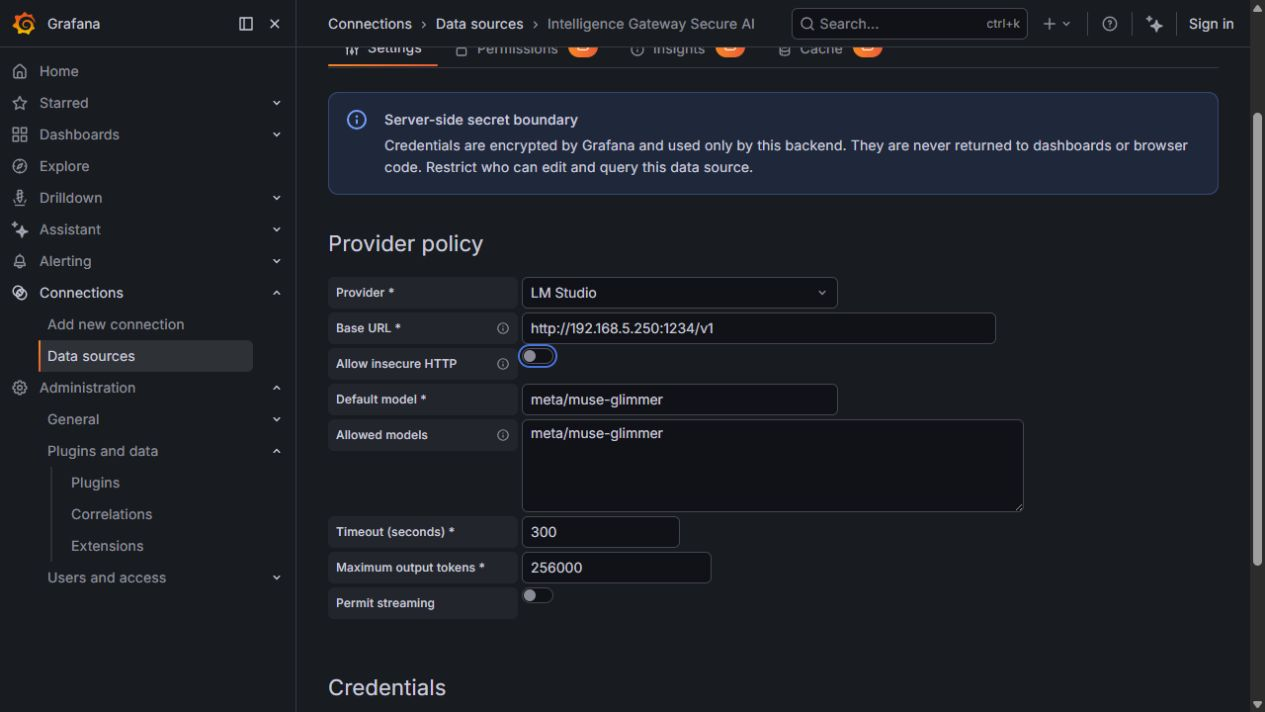
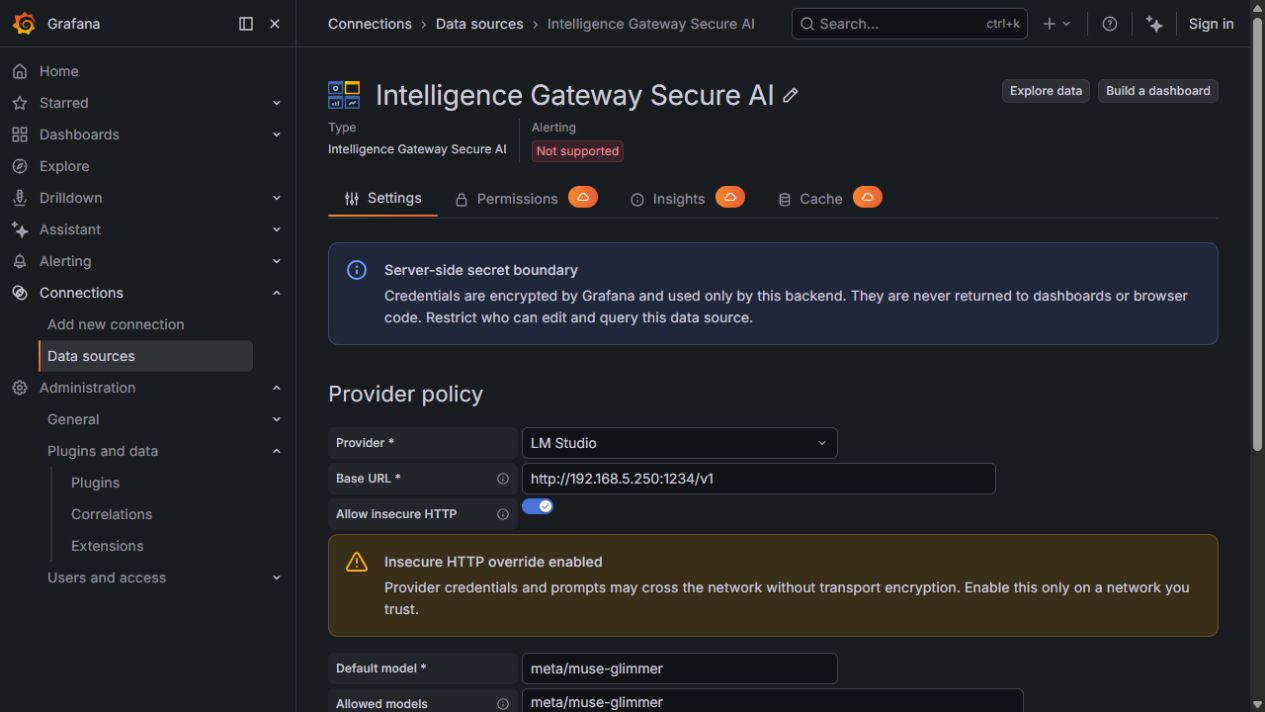
Harden secure AI data source for catalog review

diff --git a/src/components/ConfigEditor.tsx b/src/components/ConfigEditor.tsx
@@ -110,7 +110,7 @@ export function ConfigEditor({ options, onOptionsChange }: Props) {
         <InlineField
           label="Allowed models"
           labelWidth={24}
-          tooltip="One model ID per line. Leave empty to permit any model accepted by the configured provider."
+          tooltip="One model ID per line. The default model must be included. When empty, only the default model is permitted."
         >
           <TextArea
             id="config-allowed-models"
@@ -154,13 +154,6 @@ export function ConfigEditor({ options, onOptionsChange }: Props) {
             }
           />
         </InlineField>
-        <InlineField label="Permit streaming" labelWidth={24}>
-          <Switch
-            id="config-allow-streaming"
-            value={jsonData.allowStreaming}
-            onChange={(event) => updateJson('allowStreaming', event.currentTarget.checked)}
-          />
-        </InlineField>
       </FieldSet>
 
       <FieldSet label="Credentials">
@@ -179,14 +172,6 @@ export function ConfigEditor({ options, onOptionsChange }: Props) {
           value={options.secureJsonData?.bearerToken}
           onChange={(value) => updateSecret('bearerToken', value)}
           onReset={() => resetSecret('bearerToken')}
-        />
-        <SecretField
-          id="config-client-secret"
-          label="OAuth client secret"
-          configured={Boolean(options.secureJsonFields.clientSecret)}
-          value={options.secureJsonData?.clientSecret}
-          onChange={(value) => updateSecret('clientSecret', value)}
-          onReset={() => resetSecret('clientSecret')}
         />
       </FieldSet>
     </Stack>

diff --git a/src/types.ts b/src/types.ts
@@ -21,7 +21,6 @@ export interface IntelligenceGatewayDataSourceOptions extends DataSourceJsonData
   timeoutSeconds?: number;
   allowedModels?: string[];
   maxOutputTokens?: number;
-  allowStreaming?: boolean;
   allowInsecureHttp?: boolean;
 }
 
@@ -29,7 +28,6 @@ export interface IntelligenceGatewayDataSourceOptions extends DataSourceJsonData
 export interface IntelligenceGatewaySecureJsonData {
   apiKey?: string;
   bearerToken?: string;
-  clientSecret?: string;
 }
 
 export const DEFAULT_CONFIG: Required<Omit<IntelligenceGatewayDataSourceOptions, keyof DataSourceJsonData>> = {
@@ -39,6 +37,5 @@ export const DEFAULT_CONFIG: Required<Omit<IntelligenceGatewayDataSourceOptions,
   timeoutSeconds: 300,
   allowedModels: ['gpt-4.1-mini'],
   maxOutputTokens: 256000,
-  allowStreaming: false,
   allowInsecureHttp: false,
 };

diff --git a/pkg/plugin/datasource.go b/pkg/plugin/datasource.go
@@ -137,7 +137,61 @@ func (d *Datasource) handleModels(w http.ResponseWriter, req *http.Request) {
 		return
 	}
 	defer closeBody(response.Body)
-	copyResponse(w, response)
+	body, err := readBounded(response.Body)
+	if err != nil {
+		writeError(w, err)
+		return
+	}
+	filtered, err := filterModelList(body, d.gateway.settings)
+	if err != nil {
+		writeJSONError(w, http.StatusBadGateway, err.Error())
+		return
+	}
+	w.Header().Set("Content-Type", "application/json")
+	w.WriteHeader(http.StatusOK)
+	_, _ = w.Write(filtered)
+}
+
+func filterModelList(body []byte, settings *models.PluginSettings) ([]byte, error) {
+	var payload struct {
+		Data   []json.RawMessage `json:"data"`
+		Models []json.RawMessage `json:"models"`
+	}
+	if err := json.Unmarshal(body, &payload); err != nil {
+		return nil, errorsForAnswer("provider returned an invalid model list")
+	}
+	entries := payload.Data
+	if len(entries) == 0 {
+		entries = payload.Models
+	}
+	seen := make(map[string]struct{}, len(entries))
+	allowed := make([]map[string]string, 0, len(entries))
+	for _, entry := range entries {
+		var modelID string
+		if err := json.Unmarshal(entry, &modelID); err != nil {
+			var item struct {
+				ID   string `json:"id"`
+				Name string `json:"name"`
+			}
+			if err := json.Unmarshal(entry, &item); err != nil {
+				continue
+			}
+			modelID = item.ID
+			if modelID == "" {
+				modelID = item.Name
+			}
+		}
+		modelID = strings.TrimSpace(modelID)
+		if modelID == "" || !settings.ModelAllowed(modelID) {
+			continue
+		}
+		if _, exists := seen[modelID]; exists {
+			continue
+		}
+		seen[modelID] = struct{}{}
+		allowed = append(allowed, map[string]string{"id": modelID, "object": "model"})
+	}
+	return json.Marshal(map[string]any{"object": "list", "data": allowed})
 }
 
 func (d *Datasource) handleChat(w http.ResponseWriter, req *http.Request) {
@@ -165,12 +219,6 @@ func (d *Datasource) handleChat(w http.ResponseWriter, req *http.Request) {
 
 func copyResponse(w http.ResponseWriter, response *http.Response) {
 	contentType := response.Header.Get("Content-Type")
-	if strings.HasPrefix(strings.ToLower(contentType), "text/event-stream") {
-		w.Header().Set("Content-Type", contentType)
-		w.WriteHeader(http.StatusOK)
-		_, _ = io.Copy(w, io.LimitReader(response.Body, maxResponseBytes))
-		return
-	}
 	body, err := readBounded(response.Body)
 	if err != nil {
 		writeError(w, err)

diff --git a/pkg/models/settings.go b/pkg/models/settings.go
@@ -23,15 +23,13 @@ type PluginSettings struct {
 	TimeoutSeconds    int                   `json:"timeoutSeconds"`
 	AllowedModels     []string              `json:"allowedModels"`
 	MaxOutputTokens   int                   `json:"maxOutputTokens"`
-	AllowStreaming    bool                  `json:"allowStreaming"`
 	AllowInsecureHTTP bool                  `json:"allowInsecureHttp"`
 	Secrets           *SecretPluginSettings `json:"-"`
 }
 
 type SecretPluginSettings struct {
-	APIKey       string `json:"apiKey"`
-	BearerToken  string `json:"bearerToken"`
-	ClientSecret string `json:"clientSecret"`
+	APIKey      string `json:"apiKey"`
+	BearerToken string `json:"bearerToken"`
 }
 
 func LoadPluginSettings(source backend.DataSourceInstanceSettings) (*PluginSettings, error) {
@@ -40,9 +38,8 @@ func LoadPluginSettings(source backend.DataSourceInstanceSettings) (*PluginSetti
 		return nil, fmt.Errorf("unmarshal data source settings: %w", err)
 	}
 	settings.Secrets = &SecretPluginSettings{
-		APIKey:       source.DecryptedSecureJSONData["apiKey"],
-		BearerToken:  source.DecryptedSecureJSONData["bearerToken"],
-		ClientSecret: source.DecryptedSecureJSONData["clientSecret"],
+		APIKey:      source.DecryptedSecureJSONData["apiKey"],
+		BearerToken: source.DecryptedSecureJSONData["bearerToken"],
 	}
 	settings.applyDefaults()
 	if err := settings.Validate(); err != nil {
@@ -101,12 +98,15 @@ func (s PluginSettings) Validate() error {
 	if s.MaxOutputTokens < 1 || s.MaxOutputTokens > MaxConfiguredOutputTokens {
 		return fmt.Errorf("maxOutputTokens must be between 1 and %d", MaxConfiguredOutputTokens)
 	}
+	if len(s.AllowedModels) > 0 && !s.ModelAllowed(s.DefaultModel) {
+		return fmt.Errorf("defaultModel must be included in allowedModels")
+	}
 	return nil
 }
 
 func (s PluginSettings) ModelAllowed(model string) bool {
 	if len(s.AllowedModels) == 0 {
-		return true
+		return model == s.DefaultModel
 	}
 	for _, allowed := range s.AllowedModels {
 		if model == allowed {

diff --git a/pkg/plugin/gateway.go b/pkg/plugin/gateway.go
@@ -177,8 +177,8 @@ func (g *gateway) requestChat(ctx context.Context, request gatewayRequest) (*htt
 	if !g.settings.ModelAllowed(model) {
 		return nil, &gatewayError{status: http.StatusBadRequest, message: "requested model is not allowed by the administrator"}
 	}
-	if request.Stream && !g.settings.AllowStreaming {
-		return nil, &gatewayError{status: http.StatusBadRequest, message: "streaming is disabled for this data source"}
+	if request.Stream {
+		return nil, &gatewayError{status: http.StatusBadRequest, message: "streaming is not supported; use a buffered request"}
 	}
 	if request.Temperature != nil && (*request.Temperature < 0 || *request.Temperature > 2) {
 		return nil, &gatewayError{status: http.StatusBadRequest, message: "temperature must be between 0 and 2"}
@@ -231,9 +231,6 @@ func (g *gateway) requestChat(ctx context.Context, request gatewayRequest) (*htt
 	}
 	providerReq.Header.Set("Content-Type", "application/json")
 	providerReq.Header.Set("Accept", "application/json")
-	if request.Stream {
-		providerReq.Header.Set("Accept", "text/event-stream")
-	}
 	if token := g.settings.AuthorizationToken(); token != "" {
 		providerReq.Header.Set("Authorization", "Bearer "+token)
 	} else if g.settings.Provider == "openai" {

diff --git a/pkg/plugin/datasource_test.go b/pkg/plugin/datasource_test.go
@@ -96,6 +96,23 @@ func TestProviderErrorsAreRedacted(t *testing.T) {
 	}
 }
 
+func TestFilterModelListReturnsOnlyAdministratorApprovedModels(t *testing.T) {
+	settings := &models.PluginSettings{
+		DefaultModel:  "default-model",
+		AllowedModels: []string{"default-model", "allowed-model"},
+	}
+	filtered, err := filterModelList(
+		[]byte(`{"data":[{"id":"blocked-model"},{"id":"allowed-model"},{"id":"allowed-model"}]}`),
+		settings,
+	)
+	if err != nil {
+		t.Fatal(err)
+	}
+	if strings.Contains(string(filtered), "blocked-model") || strings.Count(string(filtered), "allowed-model") != 1 {
+		t.Fatalf("unexpected filtered model list: %s", filtered)
+	}
+}
+
 func TestLMStudioAllowsPrivateHTTPAddress(t *testing.T) {
 	target, err := url.Parse("http://192.168.1.25:1234/v1")
 	if err != nil {

diff --git a/pkg/models/settings_test.go b/pkg/models/settings_test.go
@@ -61,3 +61,20 @@ func TestModelAllowList(t *testing.T) {
 		t.Fatal("allow-list was not enforced")
 	}
 }
+
+func TestEmptyAllowListPermitsOnlyDefaultModel(t *testing.T) {
+	settings := PluginSettings{DefaultModel: "default-model"}
+	if !settings.ModelAllowed("default-model") || settings.ModelAllowed("other-model") {
+		t.Fatal("empty allow-list must permit only the administrator default")
+	}
+}
+
+func TestDefaultModelMustBeAllowed(t *testing.T) {
+	settings := PluginSettings{
+		Provider: "openai", BaseURL: "https://api.openai.com/v1", DefaultModel: "default-model",
+		TimeoutSeconds: 30, MaxOutputTokens: 100, AllowedModels: []string{"other-model"},
+	}
+	if err := settings.Validate(); err == nil {
+		t.Fatal("expected default model outside the allow-list to be rejected")
+	}
+}

diff --git a/scripts/package-plugin.py b/scripts/package-plugin.py
@@ -2,13 +2,15 @@
 """Create a Grafana plugin ZIP while preserving executable permissions."""
 
 from pathlib import Path
+import json
 import zipfile
 
 
 PLUGIN_ID = "digitalrcs-intelligencegateway-datasource"
 ROOT = Path(__file__).resolve().parents[1]
 DIST = ROOT / "dist"
-OUTPUT = ROOT / f"{PLUGIN_ID}-1.0.0.zip"
+VERSION = json.loads((ROOT / "package.json").read_text(encoding="utf-8"))["version"]
+OUTPUT = ROOT / f"{PLUGIN_ID}-{VERSION}.zip"
 
 
 def main() -> None:

diff --git a/README.md b/README.md
@@ -23,15 +23,12 @@ Non-secret `jsonData`:
   "timeoutSeconds": 300,
   "allowedModels": ["gpt-4.1-mini", "gpt-4.1"],
   "maxOutputTokens": 256000,
-  "allowStreaming": false,
   "allowInsecureHttp": false
 }
 ```
 
-Write-only `secureJsonData` supports `apiKey`, `bearerToken`, and the reserved `clientSecret` field. A bearer token takes
-precedence over an API key. OAuth client-credentials exchange is not enabled yet because the contract does not define a
-token URL or client ID; storing the client secret now is forward-compatible but it is never sent as a provider bearer
-token.
+Write-only `secureJsonData` supports `apiKey` and `bearerToken`. Configure only the credential required by the provider;
+a bearer token takes precedence over an API key. Unsupported or unused secret fields are intentionally not accepted.
 
 The included provisioning example reads `OPENAI_API_KEY` from the Grafana server/container environment. Never commit a
 real key or put one in dashboard JSON.
@@ -40,7 +37,7 @@ real key or put one in dashboard JSON.
 
 The panel can access these data-source resources through Grafana's authenticated data-source resource API:
 
-- `GET /models` proxies the configured provider model list.
+- `GET /models` returns only provider model IDs permitted by the administrator policy.
 - `POST /chat/completions` and `POST /analyze` accept a bounded gateway request and return the provider's
   OpenAI-compatible response.
 
@@ -73,6 +70,7 @@ request and returns a one-row `answer` frame, while the companion panel should u
 - OpenAI remains restricted to `api.openai.com` even when the HTTP override is enabled.
 - Redirects are rejected. Link-local, multicast, and unspecified destinations are rejected.
 - Request bodies are capped at 1 MiB and provider responses at 16 MiB.
+- Streaming requests are rejected; the production API is buffered and bounded.
 - Each data-source instance permits four concurrent calls and 30 calls per minute. Provider/model-specific budget and
   organization billing limits should remain enabled as the authoritative cost control.
 - Provider response bodies are never included in error messages. Prompts, responses, and credentials are not logged.

diff --git a/wiki/Configuration.md b/wiki/Configuration.md
@@ -7,10 +7,9 @@
 | Provider              | `openai`, `lmstudio`, or an OpenAI-compatible `custom` endpoint.                     |
 | Base URL              | Administrator-controlled URL up to `/v1`. Dashboard queries cannot replace it.       |
 | Default model         | Used when a panel or query omits a model.                                            |
-| Allowed models        | Optional administrator allow-list for requested model IDs.                           |
+| Allowed models        | Administrator allow-list. Include the default model; when empty, only the default is permitted. |
 | Timeout               | Server-side provider deadline, 1-600 seconds.                                        |
 | Maximum output tokens | Administrator ceiling; the lower panel request cap wins.                             |
-| Allow streaming       | Permits streamed provider requests. Current companion-panel secure mode is buffered. |
 | Allow insecure HTTP   | Explicitly permits non-TLS provider traffic. Default is off.                         |
 
 ![Explicit insecure HTTP override](https://raw.githubusercontent.com/digitalrcs/grafana-intelligence-gateway-datasource/main/src/img/insecure-http-override.png)
@@ -19,7 +18,7 @@ HTTPS is required by default. Enable **Allow insecure HTTP** only when an admini
 
 ## Credentials
 
-Enter only the credential required by the provider. A bearer token takes precedence over an API key. The client-secret field is reserved for a future OAuth contract and is not sent as a provider token.
+Enter only the credential required by the provider. A bearer token takes precedence over an API key. Unsupported or unused secret fields are not stored.
 
 After save, Grafana returns only configured/reset flags through `secureJsonFields`. To replace a secret, select its reset control, enter the new value, and save again.
 
@@ -41,7 +40,6 @@ datasources:
       allowedModels:
         - gpt-4.1-mini
       maxOutputTokens: 256000
-      allowStreaming: false
       allowInsecureHttp: false
     secureJsonData:
       apiKey: ${OPENAI_API_KEY}

diff --git a/src/README.md b/src/README.md
@@ -2,11 +2,11 @@
 
 Secure server-side AI provider access for the DigitalRCS Grafana Intelligence Gateway panel.
 
-Configure the provider URL, allowed models, timeout, output-token ceiling, and streaming policy in `jsonData`. Store
-credentials only in the API key, bearer token, or OAuth client-secret fields; Grafana encrypts these `secureJsonData`
+Configure the provider URL, allowed models, timeout, and output-token ceiling in `jsonData`. Store
+credentials only in the API key or bearer-token fields; Grafana encrypts these `secureJsonData`
 values and never returns them to browser code.
 
-The backend exposes `GET /models` plus `POST /chat/completions` and `POST /analyze` data-source resources. It enforces the
+The backend exposes `GET /models` plus `POST /chat/completions` and `POST /analyze` data-source resources. Model discovery returns only administrator-approved IDs. It enforces the
 administrator's model and token policies, fixed upstream paths, TLS/host rules, redirect blocking, bounded bodies,
 timeouts, concurrency/rate limits, and sanitized errors. The ordinary query editor can also submit a prompt and returns
 the assessment as a one-row data frame.

diff --git a/CERTIFICATION.md b/CERTIFICATION.md
@@ -9,6 +9,7 @@ This repository is prepared for Grafana's automated validation and manual plugin
 - Complete `plugin.json` metadata, logos, catalog screenshots, minimum Grafana version, source, issues, and project links.
 - Credentials stored only in `secureJsonData`; no analytics or tracking code.
 - Server-side URL, model, token, timeout, body-size, redirect, concurrency, rate, and error-redaction policies.
+- Model discovery exposes only administrator-approved IDs; an empty allow-list permits only the configured default model.
 - Typecheck, lint, frontend build, Go tests/build, and multi-version Grafana E2E in GitHub Actions.
 - Provisioned Docker review environment with a deterministic mock provider and sample dashboard.
 - Official Grafana release workflow with provenance attestation. Initial review archives remain unsigned until Grafana grants a public signature level.
